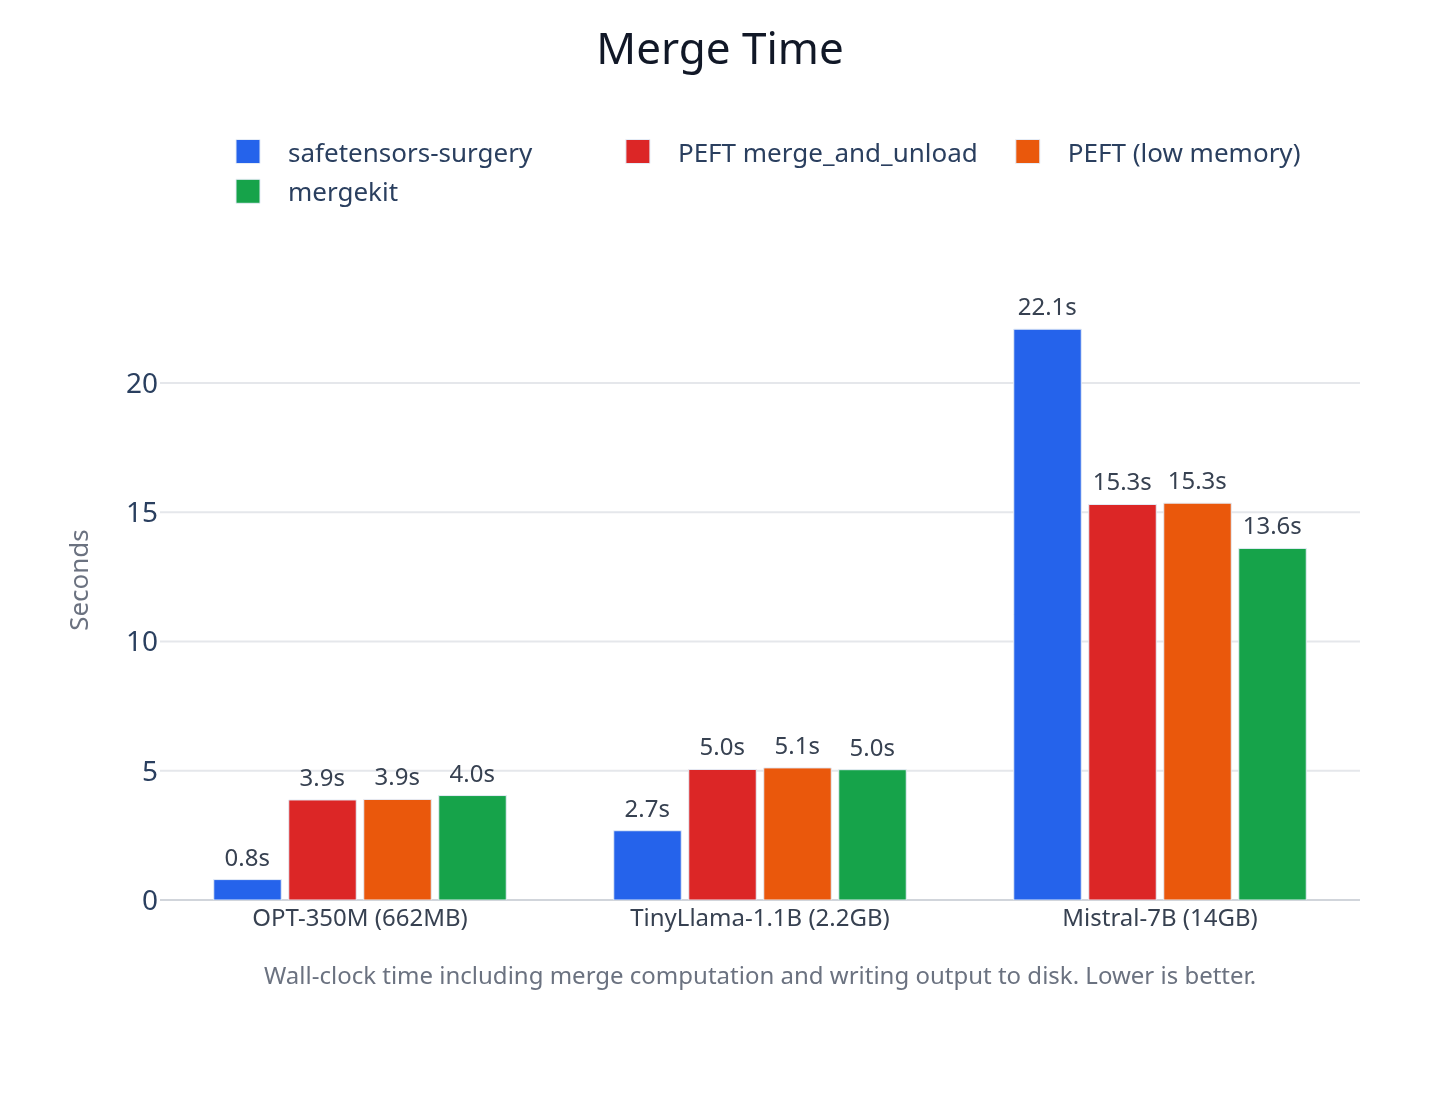
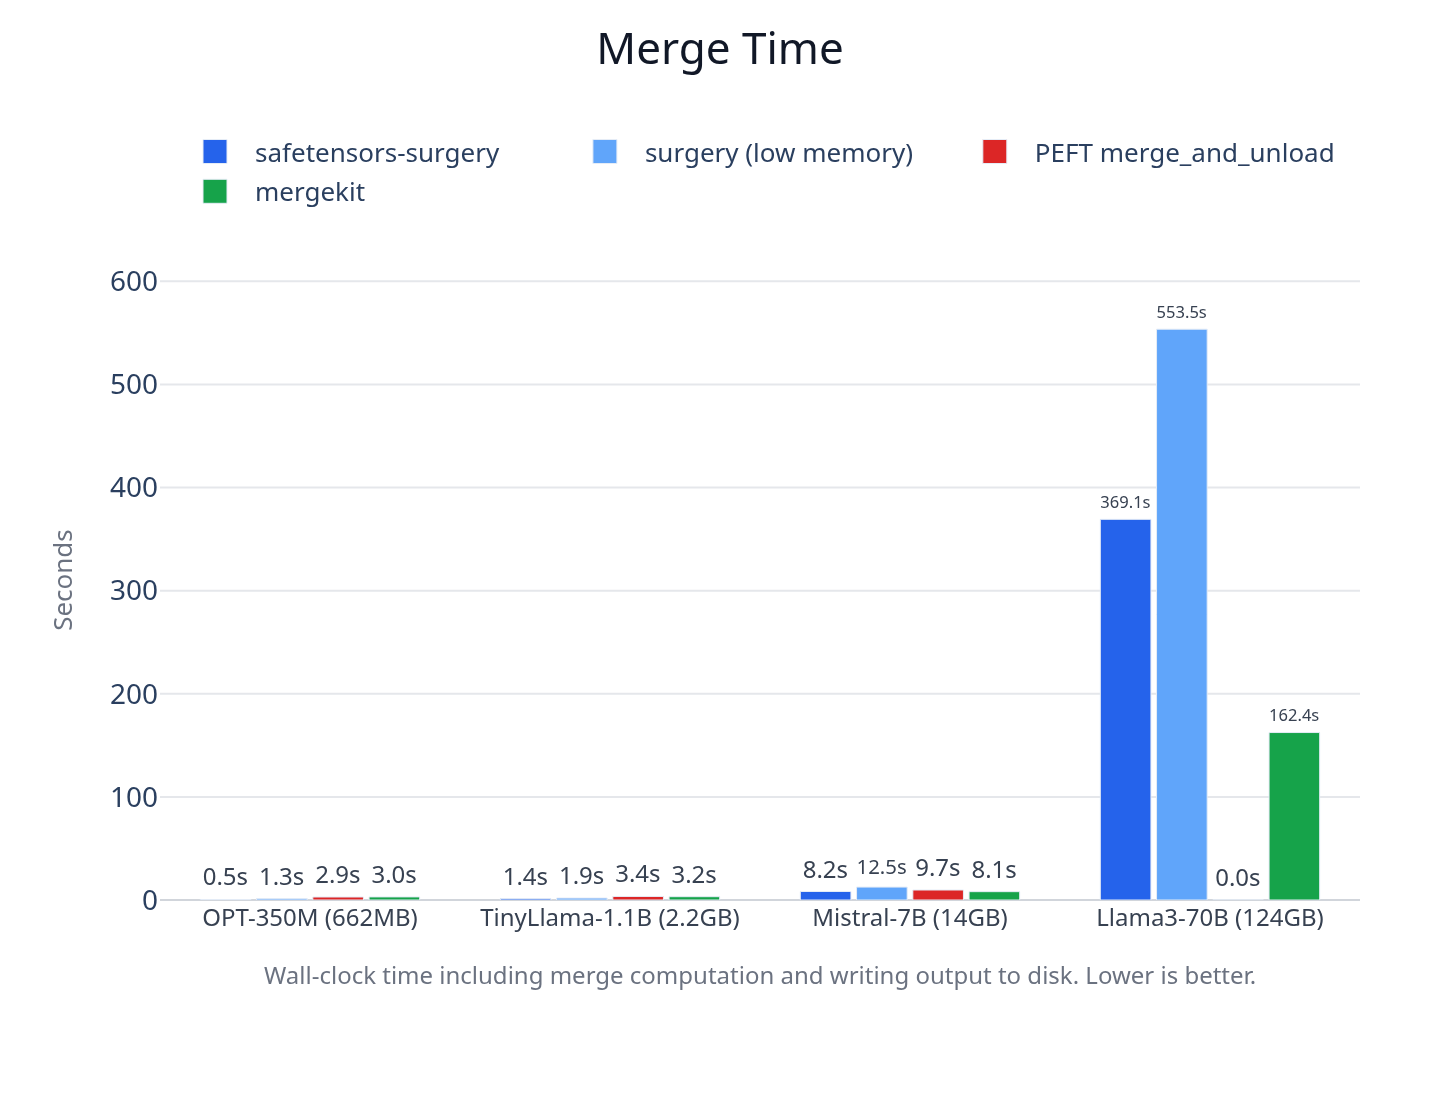
docs: update READMEs for --low-memory flag, ULP accuracy, and Llama3-70B results

diff --git a/README.md b/README.md
@@ -3,19 +3,18 @@
 [![CI](https://github.com/RoloPineda/safetensors-surgery/actions/workflows/ci.yml/badge.svg)](https://github.com/RoloPineda/safetensors-surgery/actions/workflows/ci.yaml)
 [![License: MIT](https://img.shields.io/badge/License-MIT-blue.svg)](LICENSE)
 
-`safetensors-surgery` merges PEFT LoRA adapters into safetensors base models using memory-mapped I/O. It processes tensors one at a time, so a 14B model merges in under 20 seconds using 4GB of RAM. The standard Python workflow needs 57GB for the same operation.
-
+`safetensors-surgery` merges PEFT LoRA adapters into safetensors base models using memory-mapped I/O.
 ## Why this tool
 
-Merging a LoRA adapter into a base model with PEFT's `merge_and_unload` requires loading the entire model into memory. For Mistral-7B that's 28GB of RAM. For a 14B model it's 57GB. mergekit needs less (14GB for Mistral-7B) but still scales linearly with model size. If you train on a rented GPU and want to merge on your laptop, you're stuck. You either keep the GPU running (paying by the hour), merge in the cloud, or serve with the adapter applied at runtime (slower inference).
+Merging a LoRA adapter into a base model with PEFT's `merge_and_unload` requires loading the entire model into memory. For Mistral-7B that's 28GB of RAM. For Llama3-70B it's well over 100GB. mergekit needs less (13GB for Llama3-70B) but still scales linearly with model size. If you train on a rented GPU and want to merge on your laptop, you're stuck. You either keep the GPU running, merge in the cloud, or serve with the adapter applied at runtime (slower inference).
 
-`safetensors-surgery` solves this by memory-mapping the base model and processing one tensor at a time. Mistral-7B merges in 10GB. A 14B model merges in 4GB (if sharded). No Python, no PyTorch, runs on any machine, finishes in seconds.
+`safetensors-surgery` solves this by memory-mapping the base model and processing one tensor at a time. Llama3-70B merges in 6.4GB with `--low-memory`.
 
 ### Tradeoffs
 
-**What you get:** 2-13x less memory than PEFT, mathematically equivalent merge results, 100% bit-identical passthrough on non-LoRA tensors, no Python or PyTorch dependency at runtime.
+**Advantages:** 2x less memory than mergekit on 70B models, f64-accurate merge results (100% of elements within 1 ULP of the f64 reference), 100% bit-identical passthrough on non-LoRA tensors, no Python or PyTorch dependency at runtime.
 
-**What you give up:** On 7B+ models, surgery can be slower on wall-clock time than mergekit and PEFT. The output always preserves the base model's dtype (no built-in conversion to a different precision). Only PEFT-format LoRA adapters are supported (no MLX, no multi-adapter merge methods like TIES/DARE/SLERP).
+**Downsides:** On very large models (70B+), surgery is slower on wall-clock time than mergekit due to f64 matmul overhead on large projection matrices.
 
 ## Contents
 
@@ -39,12 +38,6 @@ cd safetensors-surgery
 cargo install --path cli
 ```
 
-### Python
-
-```sh
-pip install safetensors-surgery
-```
-
 ## Usage
 
 ### CLI
@@ -62,6 +55,13 @@ safetensors-surgery merge \
   --adapter ./my-lora-adapter \
   --output ./merged-model
 
+# Low-memory mode (tiled merge, uses less RAM at the cost of speed)
+safetensors-surgery merge \
+  --base-model ./Llama-3-70B \
+  --adapter ./my-lora-adapter \
+  --output ./merged-model \
+  --low-memory
+
 # Preview what will happen without writing anything
 safetensors-surgery merge \
   --base-model ./Mistral-7B-v0.1 \
@@ -70,26 +70,12 @@ safetensors-surgery merge \
   --dry-run
 ```
 
-### Python
-
-```python
-import safetensors_surgery
-
-# Merge
-safetensors_surgery.merge(
-    base_path="./Mistral-7B-v0.1",
-    lora_path="./my-lora-adapter",
-    output_path="./merged-model.safetensors",
-)
-
-# Inspect without merging
-info = safetensors_surgery.inspect("./Mistral-7B-v0.1", "./my-lora-adapter")
-print(info)
-```
 
 ## How It Works
 
-The base model is memory-mapped, allowing the OS to stream weights from disk rather than forcing the entire model into standard heap allocation at once. For each LoRA target tensor, the base weight, lora_A, and lora_B are read, the merge `base + (alpha / r) * (B @ A)` is computed in f64, the result is downcast to the output dtype in a single step, and the buffer is freed before moving to the next tensor. Non-LoRA tensors are byte-copied from the mmap to the output without allocation or conversion. For sharded models, each shard is opened and closed independently.
+The base model is memory-mapped, allowing the OS to stream weights from disk rather than loading the entire model into memory. For each LoRA target tensor, the base weight, lora_A, and lora_B are read, the merge `base + (alpha / r) * (B @ A)` is computed with f64 matmul accumulation, and the final base+delta addition is performed in f64 before downcasting to the output dtype. This preserves numerical accuracy that would be lost with f32 intermediate computation. Non-LoRA tensors are byte-copied from the mmap to the output without allocation or conversion. For sharded models, each shard is opened and closed independently.
+
+Two merge paths are available. The default path materializes the full delta matrix in f64 for maximum speed. The `--low-memory` path tiles the matmul in fixed-size chunks, bounding peak memory at the cost of slower speed due to per-tile allocation overhead.
 
 ## Performance
 
@@ -110,10 +96,13 @@ Benchmarked on an AMD Ryzen 9 9950X3D, 128GB DDR5, 1TB NVMe. Median of 3 runs. F
 | **Mistral-7B** (bf16) | surgery | **9,856 MB** | 12.97s | Equivalent | 100% |
 | | PEFT | 28,493 MB | 11.98s | Equivalent | 100% |
 | | mergekit | 14,668 MB | **8.56s** | Equivalent | 100% |
+| **Llama3-70B** (bf16) | surgery | 11,779 MB | 365.77s | Equivalent | 100% |
+| | surgery --low-memory | **6,403 MB** | 640.36s | Equivalent | 100% |
+| | mergekit | 13,083 MB | **180.57s** | Divergent | 100% |
 
 **Peak RSS:** Maximum resident set size. Lower is better.
 
-**Accuracy:** All tools produce outputs that are mathematically equivalent in the output dtype. Intermediate computation differences between implementations (different GEMM accumulation order, different precision paths) are bounded below the output dtype's machine epsilon and vanish upon downcast.
+**Accuracy:** Measured using per-element ULP (unit in the last place) distance against a Python f64 reference merge. "Equivalent" means 100% of LoRA-merged elements are within 1 ULP of the f64 reference. "Divergent" means some elements exceed the output dtype's representable precision boundary.
 
 **Passthrough:** Percentage of non-LoRA tensors bit-identical to the original base model.
 
@@ -139,11 +128,11 @@ These fields are read from `adapter_config.json`:
 | `bias` | No | `"none"` (default), `"lora_only"`, or `"all"` |
 | `modules_to_save` | No | Full modules replaced entirely, not low-rank merged |
 
-## Current Known Limitations
+## Current Limitations
 
 **Quantized base models not supported.** The base model must be unquantized fp16, bf16, or fp32 safetensors. GPTQ, AWQ, and bitsandbytes 4-bit models cannot be used.
 
-**Speed on large models.** On 7B+ models, surgery can be slower than mergekit and PEFT due to f64 matmul on large projection matrices. For models under 2B, surgery is consistently the fastest tool.
+**Speed on very large models.** Surgery is faster or competitive through 7B. At 70B scale, f64 matmul on large projection matrices makes surgery slower than mergekit on wall-clock time. The --low-memory flag trades more time for less memory, which is useful when RAM is the constraint rather than speed.
 
 **No output dtype conversion.** The output always matches the base model's dtype. Converting a bf16 merge to fp16 requires a separate tool.
 
@@ -160,6 +149,12 @@ See [`benchmarks/`](benchmarks/) for reproduction instructions. Download test mo
 ```sh
 uv run benchmarks/download_data.py --models all
 uv run benchmarks/compare.py --models opt-350m tinyllama-1.1b mistral-7b --runs 3
+```
+
+To benchmark the low-memory mode alongside the default:
+
+```sh
+uv run benchmarks/compare.py --models mistral-7b --tools surgery surgery_low_mem mergekit --runs 3
 ```
 
 Hardware varies. If you run benchmarks on your machine, consider sharing the results (CPU model, RAM, storage type, and the `benchmarks/results.json` file) so the community can see performance across different setups.

diff --git a/benchmarks/README.md b/benchmarks/README.md
@@ -2,7 +2,7 @@
 
 Compare safetensors-surgery against PEFT `merge_and_unload`, PEFT low-memory mode, and mergekit.
 
-Measures three things per tool: peak memory (RSS), wall-clock time, and merge accuracy against an f64 gold standard.
+Measures three things per tool: peak memory (RSS), wall-clock time, and merge accuracy against a Python f64 reference.
 
 ## Quick start
 
@@ -20,22 +20,23 @@ That's it. uv reads dependency metadata from the scripts and handles Python vers
 
 ## Full benchmark
 
-Download all three models (~18GB total) and run with 3 iterations per tool:
+Download all four models and run with 3 iterations per tool:
 
 ```bash
 uv run benchmarks/download_data.py --models all
-uv run benchmarks/compare.py --models opt-350m tinyllama-1.1b mistral-7b --runs 3
+uv run benchmarks/compare.py --models all --runs 3
 ```
 
 ## Picking which models to benchmark
 
-Not everyone has 18GB of free disk. Pick what fits:
+Not everyone has 140GB of free disk. Pick what fits:
 
 | Model | Download | Base dtype | Notes |
 |---|---|---|---|
 | `opt-350m` | ~700MB | fp16 | Fast, good for sanity checks |
 | `tinyllama-1.1b` | ~2.5GB | bf16 | Tests bf16 accuracy path |
 | `mistral-7b` | ~15GB | bf16 | Single-file, 7B scale |
+| `llama3-70b` | ~124GB | bf16 | Sharded, 70B scale, requires significant disk |
 
 ```bash
 # Download only what you need
@@ -50,7 +51,7 @@ uv run benchmarks/download_data.py --list
 ```
 benchmarks/compare.py options:
   --models MODEL [MODEL ...]   Which models to benchmark
-  --tools TOOL [TOOL ...]      Which tools (surgery, peft, peft_low_mem, mergekit)
+  --tools TOOL [TOOL ...]      Which tools (surgery, surgery_low_mem, peft, peft_low_mem, mergekit)
   --runs N                     Iterations per tool (default: 3, reports median)
   --output PATH                Output chart path (default: benchmarks/results.png)
   --drop-caches                Drop OS page cache before each run (requires passwordless sudo)
@@ -59,6 +60,10 @@ benchmarks/compare.py options:
 Run only specific tools:
 
 ```bash
+# Compare default and low-memory surgery modes
+uv run benchmarks/compare.py --models mistral-7b --tools surgery surgery_low_mem --runs 3
+
+# Compare surgery against PEFT only
 uv run benchmarks/compare.py --models opt-350m --tools surgery peft --runs 1
 ```
 
@@ -79,15 +84,23 @@ python3 benchmarks/compare.py --models opt-350m --runs 1
 
 **Time (s):** Wall-clock time including both merge and save-to-disk. Median of N runs. Includes process startup for all tools (Rust binary startup for surgery, Python interpreter startup for PEFT/mergekit).
 
-**LoRA Max Err:** Maximum intermediate f64 error of any single element in any LoRA target tensor, compared to the f64 gold standard. This measures implementation differences (GEMM accumulation order, precision paths) before downcast.
+**Max ULP:** Maximum ULP (unit in the last place) distance of any element in any LoRA target tensor, compared to a Python f64 reference merge computed on the fly. Lower is better. A max ULP of 0 means bit-identical to the reference after downcast; 1 means the adjacent representable value.
 
-**Accuracy Status:** Whether the intermediate error is bounded by a safe margin of the output dtype's machine epsilon. "Equivalent" means the difference vanishes when downcast to the output dtype, producing identical bytes. All tools should show "Equivalent."
+**Mean ULP:** Average ULP distance across all elements of all LoRA target tensors. Reported to 6 decimal places to distinguish near-perfect tools.
 
-**Passthrough:** Percentage of non-LoRA tensors that are bit-identical to the original base model.
+**Within 1 ULP (%):** Percentage of all LoRA-merged elements that are within 1 ULP of the f64 reference. 100% means every element is either exact or off by the smallest representable step.
+
+**Passthrough:** Percentage of non-LoRA tensors that are bit-identical to the original base model. Should always be 100% for all tools.
+
+## Accuracy methodology
+
+For each LoRA target tensor, the harness computes a Python f64 reference: `base_f64 + scaling * (B_f64 @ A_f64)`, where all operands are upcast to float64 before computation. This reference is then downcast to the output dtype (bf16/f16/f32) for comparison. ULP distance is computed using the IEEE 754 sign-magnitude integer trick, which maps floating-point values to integers such that adjacent representable floats differ by 1.
+
+The reference is computed per-tensor in 512-row chunks to avoid materializing the full model in memory simultaneously.
 
 ## Sharing results
 
-If you run benchmarks, we'd appreciate if you share your results. Include:
+If you run benchmarks, I'd appreciate if you share your results. Include:
 
 - CPU model (e.g., `lscpu | grep "Model name"`)
 - RAM amount